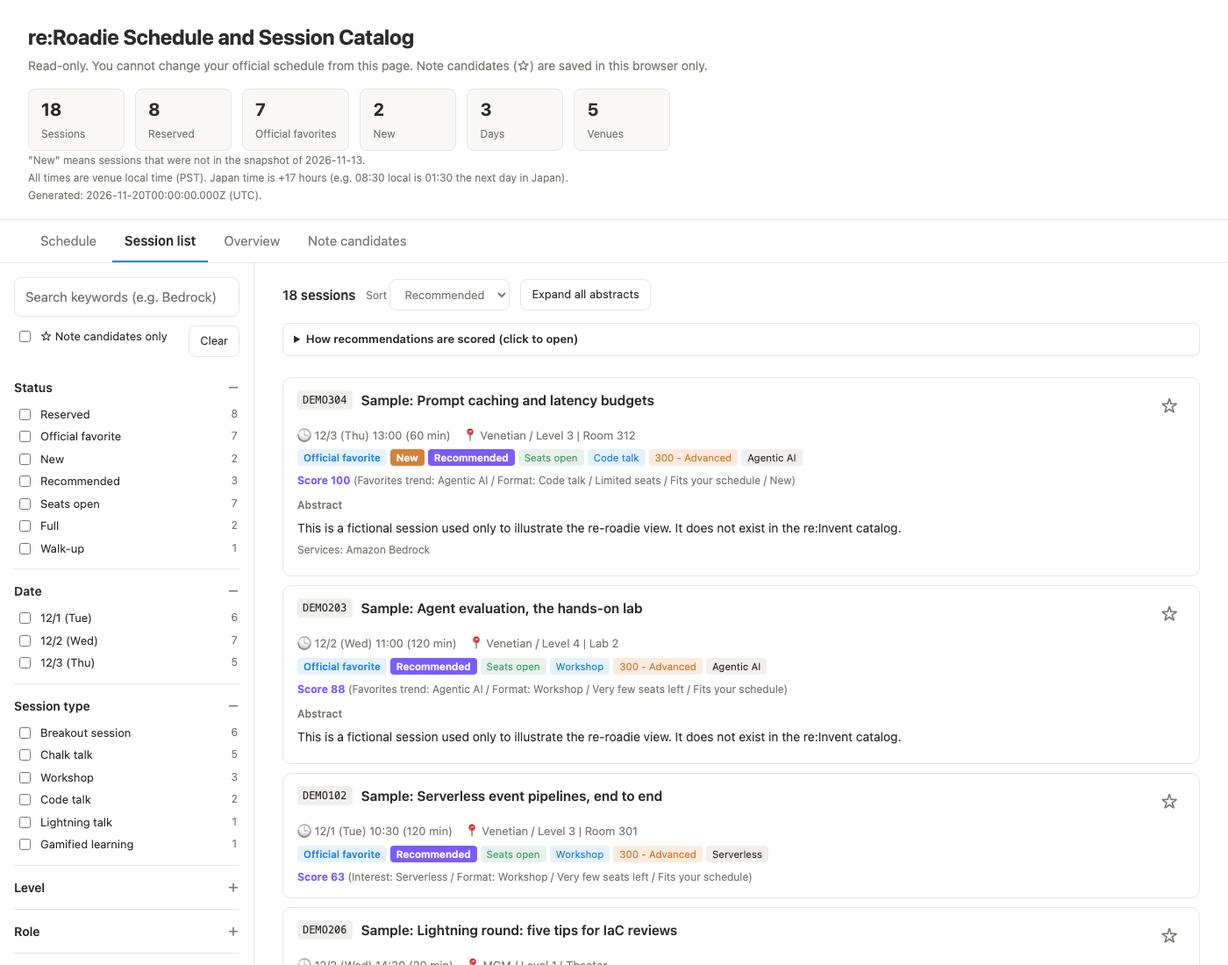
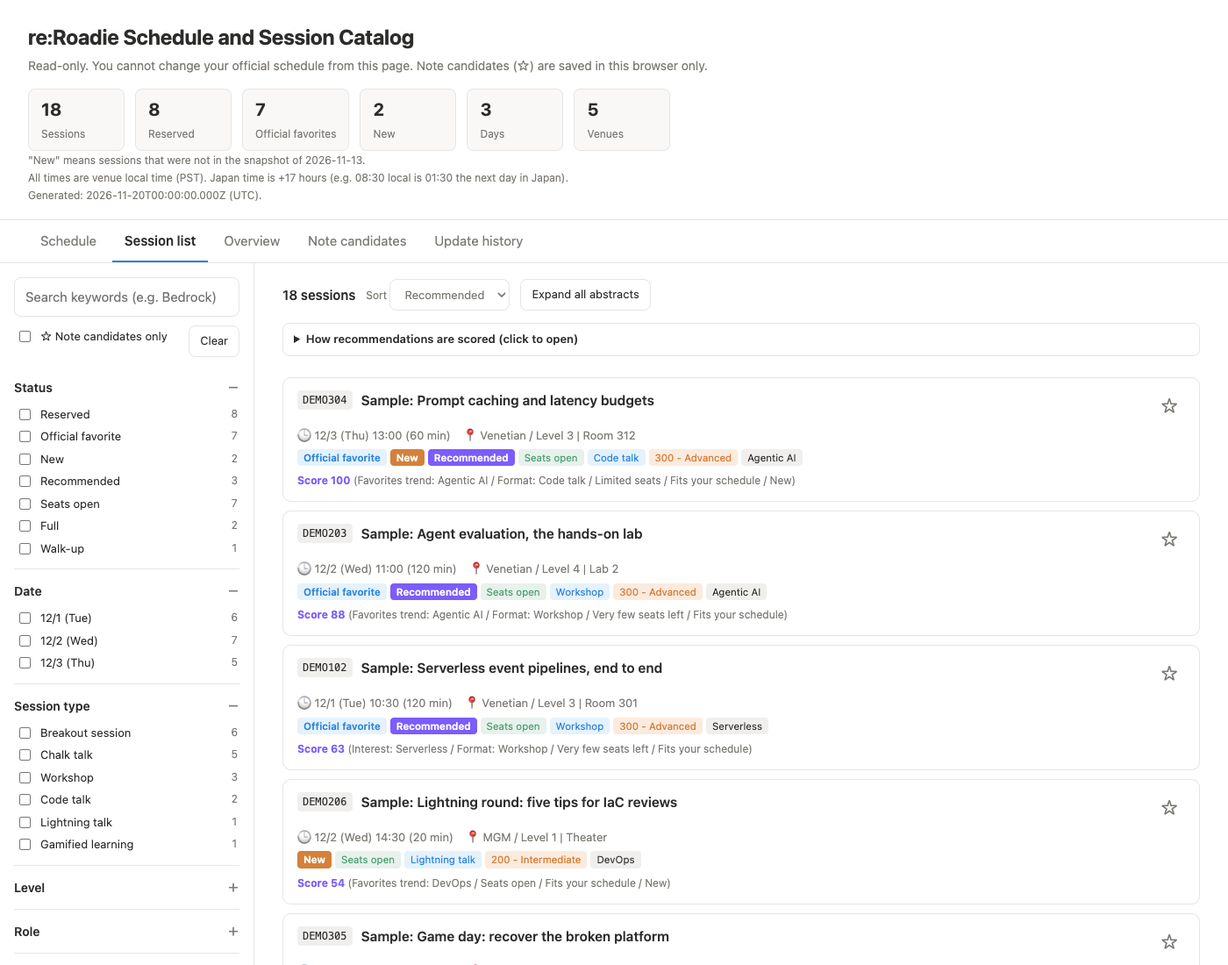
docs: サンプルHTMLとスクリーンショットを更新し、更新履歴タブの画面を加える
viewに更新履歴タブが加わったため、架空のデータでサンプルを作り直し、画面の画像を撮り直した。
更新履歴タブの画像（日英）も加える。英語版の更新履歴で、会場などの区切りが日本語の読点に
なっていたため、英語では「, 」にする。

Changed region(s): [[0.2457, 0.4945, 0.9521, 1.0], [0.3686, 0.2473, 0.43, 0.2782]]

diff --git a/docs/sample/schedule-sample.html b/docs/sample/schedule-sample.html
@@ -165,6 +165,17 @@ details.f[open] summary::after{content:"－"}
 .w-col .t-card{font-size:11px;padding:1px 4px}
 .w-col .t-hour span{font-size:10px}
 @media (max-width:820px){.layout{grid-template-columns:1fr}aside{position:static;max-height:none;border-right:0;border-bottom:1px solid var(--bd)}main,header,.view{padding-left:16px;padding-right:16px}.tabs{padding:0 8px;overflow-x:auto}.bar{grid-template-columns:120px 1fr 40px}.t-lane{left:44px}}
+
+.dg table{border-collapse:collapse;width:100%;margin-bottom:24px;font-size:14px}
+.dg th,.dg td{border-bottom:1px solid var(--bd);padding:6px 8px;text-align:left}.dg td.n{text-align:right}
+.dg section{background:var(--sf);border:1px solid var(--bd);border-radius:8px;padding:12px 16px;margin-bottom:16px}
+.dg h2{font-size:17px;margin:0 0 6px}.dg h4{margin:12px 0 4px;font-size:13px;color:var(--tx2)}
+.dg .note{font-size:12px;font-weight:normal;color:var(--tx2);margin-left:8px}
+.dg .chip{display:inline-block;margin-right:8px;font-size:13px;font-weight:600}
+.dg .add{color:var(--gr)}.dg .rem{color:var(--rd)}.dg .chg{color:var(--or)}
+.dg details{margin-top:8px}.dg summary{cursor:pointer;font-weight:600}.dg .count{color:var(--tx2);font-weight:normal}
+.dg ul{margin:6px 0 0;padding-left:20px}.dg li{margin:3px 0}.dg .meta{color:var(--tx2);font-size:13px}.dg .none,.dg .cap{color:var(--tx2);margin:8px 0 12px;font-size:13px}
+.dg a{color:inherit}
 </style></head><body>
 <header><h1>re:Roadie 予定とセッションカタログ</h1>
 <p class="sub">参照専用です。この画面から公式の予定は変更できません。☆のメモ候補はこのブラウザだけに保存されます。</p>
@@ -177,6 +188,7 @@ details.f[open] summary::after{content:"－"}
 <button class="tab" data-v="list" role="tab">セッション一覧</button>
 <button class="tab" data-v="ov" role="tab">全体像</button>
 <button class="tab" data-v="memo" role="tab">メモ候補 <span id="memon"></span></button>
+<button class="tab" data-v="digest" role="tab">更新履歴</button>
 </nav>
 <div id="vsched" class="view">
 <div class="note">予約 8件 / お気に入り 7件（未予約） / <span class="warn-text">警告 1件</span></div>
@@ -287,6 +299,7 @@ Gamified learning / 300 - Advanced" style="top:576.0px;height:216.0px;left:0.00%
 <div class="toolbar"><span class="count" id="memoCount"></span><button class="btn" id="csv">CSVエクスポート</button><span class="note">時間が重なる候補は赤く表示されます（会場間の移動時間は考慮していません）。このブラウザだけのメモで、公式の予定・予約には反映されません。★を押すとメモから外せます。</span></div>
 <div id="memoPlan"></div>
 </div>
+<div id="vdigest" class="view hidden"><div class="dg"><p class="cap">件数はカタログの掲載数で、AWS の注力や参加者数を表すとは限りません。変更は会場・部屋・日時のみ。</p><table><thead><tr><th>期間</th><th>新規</th><th>削除</th><th>変更</th></tr></thead><tbody><tr><td><a href="#d-2026-11-20">2026-11-17 → 2026-11-20</a></td><td class="n add">1</td><td class="n rem">1</td><td class="n chg">1</td></tr><tr><td><a href="#d-2026-11-17">2026-11-16 → 2026-11-17</a></td><td class="n add">1</td><td class="n rem">0</td><td class="n chg">0</td></tr><tr><td><a href="#d-2026-11-16">2026-11-13 → 2026-11-16</a></td><td class="n add">0</td><td class="n rem">0</td><td class="n chg">0</td></tr></tbody></table><section id="d-2026-11-20"><h2>2026-11-17 → 2026-11-20 <span class="note">3日分をまとめた差分（間のスナップショットなし）</span></h2><div class="chips"><span class="chip add">新規 1</span><span class="chip rem">削除 1</span><span class="chip chg">変更 1</span></div><details open><summary>新規 <span class="count">1件</span></summary><h4>Code talk (1)</h4><ul><li><b>DEMO304</b> Sample: Prompt caching and latency budgets <span class="meta">12/3 13:00、Venetian、Level 3 | Room 312</span></li></ul></details><details><summary>削除 <span class="count">1件</span></summary><ul><li><b>DEMO401</b> Sample: Retired session that left the catalog <span class="meta">12/2 10:00、Wynn、Level 1 | Latour</span></li></ul></details><details><summary>変更（会場・部屋・日時） <span class="count">1件</span></summary><ul><li><b>DEMO105</b> Sample: Observability for event-driven systems <span class="meta">部屋: Level 1 | Room 102 → Level 1 | Room 101 / 日時: 12/1 14:30 → 12/1 15:00</span></li></ul></details></section><section id="d-2026-11-17"><h2>2026-11-16 → 2026-11-17 </h2><div class="chips"><span class="chip add">新規 1</span><span class="chip rem">削除 0</span><span class="chip chg">変更 0</span></div><details><summary>新規 <span class="count">1件</span></summary><h4>Lightning talk (1)</h4><ul><li><b>DEMO206</b> Sample: Lightning round: five tips for IaC reviews <span class="meta">12/2 14:30、MGM、Level 1 | Theater</span></li></ul></details></section><section id="d-2026-11-16"><h2>2026-11-13 → 2026-11-16 <span class="note">3日分をまとめた差分（間のスナップショットなし）</span></h2><div class="chips"><span class="chip add">新規 0</span><span class="chip rem">削除 0</span><span class="chip chg">変更 0</span></div><p class="none">変化なし</p></section></div></div>
 <script type="application/json" id="ri-data">{"data":[{"id":"sample-101","c":"DEMO101","t":"Sample: Designing agent workflows with tool use","a":"This is a fictional session used only to illustrate the re-roadie view. It does not exist in the re:Invent catalog.","ty":"Breakout session","lv":"300 - Advanced","tp":["Agentic AI"],"rl":[],"ar":[],"in":[],"sv":["Amazon Bedrock"],"ft":[],"ve":"Venetian","rm":"Level 2 | Hall A","dt":"2026-12-01","tm":"09:00","ln":60,"sp":[],"sa":"limited","ss":["予約済み"]},{"id":"sample-102","c":"DEMO102","t":"Sample: Serverless event pipelines, end to end","a":"This is a fictional session used only to illustrate the re-roadie view. It does not exist in the re:Invent catalog.","ty":"Workshop","lv":"300 - Advanced","tp":["Serverless"],"rl":[],"ar":[],"in":[],"sv":["AWS Lambda"],"ft":[],"ve":"Venetian","rm":"Level 3 | Room 301","dt":"2026-12-01","tm":"10:30","ln":120,"sp":[],"sa":"veryLimited","rc":63,"rw":["関心: サーバーレス","形式: ワークショップ","残りわずか","予定に収まる"],"ss":["公式お気に入り","おすすめ","空席あり"]},{"id":"sample-103","c":"DEMO103","t":"Sample: Cost controls for AI workloads","a":"This is a fictional session used only to illustrate the re-roadie view. It does not exist in the re:Invent catalog.","ty":"Chalk talk","lv":"200 - Intermediate","tp":["Cost Optimization"],"rl":[],"ar":[],"in":[],"sv":[],"ft":[],"ve":"Caesars Forum","rm":"Level 1 | Forum 105","dt":"2026-12-01","tm":"13:30","ln":60,"sp":[],"sa":"available","ss":["予約済み"]},{"id":"sample-104","c":"DEMO104","t":"Sample: Securing MCP servers in production","a":"This is a fictional session used only to illustrate the re-roadie view. It does not exist in the re:Invent catalog.","ty":"Chalk talk","lv":"300 - Advanced","tp":["Security & Identity","Agentic AI"],"rl":[],"ar":[],"in":[],"sv":[],"ft":[],"ve":"Caesars Forum","rm":"Level 2 | Forum 210","dt":"2026-12-01","tm":"14:45","ln":60,"sp":[],"sa":"unavailable","ss":["公式お気に入り","満席"]},{"id":"sample-105","c":"DEMO105","t":"Sample: Observability for event-driven systems","a":"This is a fictional session used only to illustrate the re-roadie view. It does not exist in the re:Invent catalog.","ty":"Code talk","lv":"300 - Advanced","tp":["Observability"],"rl":[],"ar":[],"in":[],"sv":[],"ft":[],"ve":"MGM","rm":"Level 1 | Room 101","dt":"2026-12-01","tm":"15:00","ln":60,"sp":[],"sa":"available","ss":["空席あり"]},{"id":"sample-106","c":"DEMO106","t":"Sample: Networking patterns for multi-account setups","a":"This is a fictional session used only to illustrate the re-roadie view. It does not exist in the re:Invent catalog.","ty":"Breakout session","lv":"300 - Advanced","tp":["Networking"],"rl":[],"ar":[],"in":[],"sv":[],"ft":[],"ve":"Wynn","rm":"Level 1 | Lafleur","dt":"2026-12-01","tm":"16:30","ln":60,"sp":[],"sa":"limited","ss":["予約済み"]},{"id":"sample-201","c":"DEMO201","t":"Sample: Retrieval patterns that survive production","a":"This is a fictional session used only to illustrate the re-roadie view. It does not exist in the re:Invent catalog.","ty":"Breakout session","lv":"300 - Advanced","tp":["Agentic AI","Data"],"rl":[],"ar":[],"in":[],"sv":["Amazon Bedrock"],"ft":[],"ve":"Venetian","rm":"Level 2 | Hall B","dt":"2026-12-02","tm":"08:30","ln":60,"sp":[],"sa":"available","ss":["予約済み"]},{"id":"sample-202","c":"DEMO202","t":"Sample: Build interactive web apps with serverless","a":"This is a fictional session used only to illustrate the re-roadie view. It does not exist in the re:Invent catalog.","ty":"Chalk talk","lv":"200 - Intermediate","tp":["Serverless"],"rl":[],"ar":[],"in":[],"sv":["AWS Lambda"],"ft":[],"ve":"Venetian","rm":"Level 3 | Room 305","dt":"2026-12-02","tm":"09:45","ln":60,"sp":[],"sa":"limited","ss":["予約済み"]},{"id":"sample-203","c":"DEMO203","t":"Sample: Agent evaluation, the hands-on lab","a":"This is a fictional session used only to illustrate the re-roadie view. It does not exist in the re:Invent catalog.","ty":"Workshop","lv":"300 - Advanced","tp":["Agentic AI"],"rl":[],"ar":[],"in":[],"sv":[],"ft":[],"ve":"Venetian","rm":"Level 4 | Lab 2","dt":"2026-12-02","tm":"11:00","ln":120,"sp":[],"sa":"veryLimited","rc":88,"rw":["お気に入りの傾向: エージェンティックAI","形式: ワークショップ","残りわずか","予定に収まる"],"ss":["公式お気に入り","おすすめ","空席あり"]},{"id":"sample-204","c":"DEMO204","t":"Sample: Identity for autonomous agents","a":"This is a fictional session used only to illustrate the re-roadie view. It does not exist in the re:Invent catalog.","ty":"Chalk talk","lv":"300 - Advanced","tp":["Security & Identity"],"rl":[],"ar":[],"in":[],"sv":[],"ft":[],"ve":"Caesars Forum","rm":"Level 1 | Forum 108","dt":"2026-12-02","tm":"13:00","ln":60,"sp":[],"sa":"walkUp","ss":["公式お気に入り","当日先着"]},{"id":"sample-205","c":"DEMO205","t":"Sample: Kubernetes upgrades without surprises","a":"This is a fictional session used only to illustrate the re-roadie view. It does not exist in the re:Invent catalog.","ty":"Breakout session","lv":"300 - Advanced","tp":["Containers"],"rl":[],"ar":[],"in":[],"sv":[],"ft":[],"ve":"Caesars Forum","rm":"Level 2 | Forum 215","dt":"2026-12-02","tm":"13:30","ln":60,"sp":[],"sa":"available","rc":48,"rw":["お気に入りの傾向: コンテナ","空席あり","予定に収まる"],"ss":["公式お気に入り","空席あり"]},{"id":"sample-206","c":"DEMO206","t":"Sample: Lightning round: five tips for IaC reviews","a":"This is a fictional session used only to illustrate the re-roadie view. It does not exist in the re:Invent catalog.","ty":"Lightning talk","lv":"200 - Intermediate","tp":["DevOps"],"rl":[],"ar":[],"in":[],"sv":[],"ft":[],"ve":"MGM","rm":"Level 1 | Theater","dt":"2026-12-02","tm":"14:30","ln":20,"sp":[],"sa":"available","rc":54,"rw":["お気に入りの傾向: DevOps","空席あり","予定に収まる","新着"],"ss":["新着","空席あり"]},{"id":"sample-207","c":"DEMO207","t":"Sample: Data lake governance in practice","a":"This is a fictional session used only to illustrate the re-roadie view. It does not exist in the re:Invent catalog.","ty":"Breakout session","lv":"300 - Advanced","tp":["Data"],"rl":[],"ar":[],"in":[],"sv":[],"ft":[],"ve":"Wynn","rm":"Level 1 | Latour","dt":"2026-12-02","tm":"16:00","ln":60,"sp":[],"sa":"limited","ss":["予約済み"]},{"id":"sample-301","c":"DEMO301","t":"Sample: Keynote companion: what changed this year","a":"This is a fictional session used only to illustrate the re-roadie view. It does not exist in the re:Invent catalog.","ty":"Breakout session","lv":"100 - Foundational","tp":["Strategy"],"rl":[],"ar":[],"in":[],"sv":[],"ft":[],"ve":"Venetian","rm":"Level 2 | Hall A","dt":"2026-12-03","tm":"08:00","ln":60,"sp":[],"sa":"available","ss":["予約済み"]},{"id":"sample-302","c":"DEMO302","t":"Sample: Resilience drills with chaos experiments","a":"This is a fictional session used only to illustrate the re-roadie view. It does not exist in the re:Invent catalog.","ty":"Workshop","lv":"300 - Advanced","tp":["Resilience"],"rl":[],"ar":[],"in":[],"sv":[],"ft":[],"ve":"Caesars Palace","rm":"Level 1 | Octavius 4","dt":"2026-12-03","tm":"10:00","ln":120,"sp":[],"sa":"unavailable","ss":["満席"]},{"id":"sample-303","c":"DEMO303","t":"Sample: Choosing a queue: when to use which","a":"This is a fictional session used only to illustrate the re-roadie view. It does not exist in the re:Invent catalog.","ty":"Chalk talk","lv":"200 - Intermediate","tp":["Serverless","Integration"],"rl":[],"ar":[],"in":[],"sv":[],"ft":[],"ve":"Venetian","rm":"Level 3 | Room 310","dt":"2026-12-03","tm":"10:15","ln":60,"sp":[],"sa":"available","ss":["予約済み"]},{"id":"sample-304","c":"DEMO304","t":"Sample: Prompt caching and latency budgets","a":"This is a fictional session used only to illustrate the re-roadie view. It does not exist in the re:Invent catalog.","ty":"Code talk","lv":"300 - Advanced","tp":["Agentic AI"],"rl":[],"ar":[],"in":[],"sv":["Amazon Bedrock"],"ft":[],"ve":"Venetian","rm":"Level 3 | Room 312","dt":"2026-12-03","tm":"13:00","ln":60,"sp":[],"sa":"limited","rc":100,"rw":["お気に入りの傾向: エージェンティックAI","形式: コードトーク","残り少なめ","予定に収まる","新着"],"ss":["公式お気に入り","新着","おすすめ","空席あり"]},{"id":"sample-305","c":"DEMO305","t":"Sample: Game day: recover the broken platform","a":"This is a fictional session used only to illustrate the re-roadie view. It does not exist in the re:Invent catalog.","ty":"Gamified learning","lv":"300 - Advanced","tp":["Resilience","DevOps"],"rl":[],"ar":[],"in":[],"sv":[],"ft":[],"ve":"MGM","rm":"Level 2 | Room 210","dt":"2026-12-03","tm":"15:00","ln":180,"sp":[],"sa":"veryLimited","rc":54,"rw":["お気に入りの傾向: レジリエンス","形式: ゲーム形式の学習","残りわずか","予定に収まる"],"ss":["公式お気に入り","空席あり"]}],"ja":{"Chalk talk":"チョークトーク","Breakout session":"ブレイクアウトセッション","Workshop":"ワークショップ","Builders' session":"ビルダーズセッション","Lightning talk":"ライトニングトーク","Code talk":"コードトーク","Lab":"ラボ","Gamified learning":"ゲーム形式の学習","Bootcamp":"ブートキャンプ","Exam prep":"試験対策","100 - Foundational":"100 - 基礎","200 - Intermediate":"200 - 中級","300 - Advanced":"300 - 上級","400 - Expert":"400 - エキスパート","500 - Distinguished":"500 - 最上級","No Level":"レベルなし","Discussion":"ディスカッション","Lecture-style":"講義形式","Hands-on":"ハンズオン","AWS Partners":"AWSパートナー","Customer story":"顧客事例","Community-led":"コミュニティ主導","Self-paced":"セルフペース","Artificial Intelligence":"人工知能 (AI)","Security & Identity":"セキュリティ & アイデンティティ","Architecture":"アーキテクチャ","Cloud Operations":"クラウド運用","Migration & Modernization":"移行 & モダナイゼーション","Developer Tools":"開発者ツール","Business Agents":"ビジネスエージェント","Compute":"コンピューティング","Serverless":"サーバーレス","Databases":"データベース","Analytics":"分析","Industry Solutions":"業界ソリューション","Containers":"コンテナ","Storage":"ストレージ","Networking & Content Delivery":"ネットワーク & コンテンツ配信","Application Integration":"アプリケーション統合","Hybrid Cloud & Multicloud":"ハイブリッド & マルチクラウド","Open Source":"オープンソース","Solution / Systems Architect":"ソリューション / システムアーキテクト","Developer / Engineer":"開発者 / エンジニア","IT Professional / Technical Manager":"ITプロフェッショナル / 技術マネージャー","DevOps Engineer":"DevOpsエンジニア","IT Executive":"IT経営層","Business Executive":"ビジネス経営層","Cloud Security Specialist":"クラウドセキュリティスペシャリスト","Data Engineer":"データエンジニア","IT Administrator":"IT管理者","Academic / Researcher":"学術 / 研究者","System Administrator":"システム管理者","Data Scientist":"データサイエンティスト","Advisor / Consultant":"アドバイザー / コンサルタント","Tech Explorer":"テクノロジー探求者","Sales / Marketing":"営業 / マーケティング","Entrepreneur (Founder/Co-Founder)":"起業家 (創業者)","Student":"学生","Venture Capitalist":"ベンチャーキャピタリスト","Agentic AI":"エージェンティックAI","Generative AI":"生成AI","Innovation & Transformation":"イノベーション & 変革","Cost Optimization":"コスト最適化","DevOps":"DevOps","Automation":"自動化","Monitoring & Observability":"監視 & オブザーバビリティ","Resilience":"レジリエンス","Governance, Risk & Compliance":"ガバナンス・リスク・コンプライアンス","Global Infrastructure":"グローバルインフラ","Application Security":"アプリケーションセキュリティ","Lambda-Based Applications":"Lambdaベースのアプリ","Machine Learning":"機械学習","Identity & Access Management":"ID & アクセス管理","Event-Driven Architecture":"イベント駆動アーキテクチャ","Well-Architected Framework":"Well-Architectedフレームワーク","DevSecOps":"DevSecOps","Network & Infrastructure Security":"ネットワーク & インフラセキュリティ","Management & Governance":"管理 & ガバナンス","Data Protection":"データ保護","Kubernetes":"Kubernetes","Threat Detection & Incident Response":"脅威検出 & インシデント対応","Responsible AI":"責任あるAI","Training & Certification":"トレーニング & 認定","Edge Computing":"エッジコンピューティング","Disaster Response & Recovery":"災害対応 & 復旧","Customer Enablement":"カスタマーイネーブルメント","Business Intelligence":"ビジネスインテリジェンス","Open Data":"オープンデータ","Tech for Impact":"社会貢献テック","Front-End Web & Mobile":"フロントエンド Web & モバイル","SaaS":"SaaS","VMware":"VMware","Microsoft & .NET":"Microsoft & .NET","Culture of Security":"セキュリティ文化","Learning from Amazon":"Amazonに学ぶ","Zero Trust":"ゼロトラスト","Digital Sovereignty":"デジタル主権","SAP":"SAP","Threat Intelligence":"脅威インテリジェンス","Workforce Development":"人材育成","Robotics":"ロボティクス","Internet of Things":"IoT","Oracle":"Oracle","Sustainability":"サステナビリティ","Quantum Technologies":"量子技術","Cryptography and Post-Quantum":"暗号 & 耐量子","Blockchain":"ブロックチェーン","DNU - Serverless":"DNU - サーバーレス","Inclusion":"インクルージョン","Privacy":"プライバシー","Financial Services":"金融","Media & Entertainment":"メディア & エンタメ","Government":"政府・公共","Healthcare & Life Sciences":"ヘルスケア & ライフサイエンス","Retail & Consumer Goods":"小売 & 消費財","Automotive":"自動車","Telecommunications":"通信","Manufacturing & Industrial":"製造 & 産業","Advertising & Marketing":"広告 & マーケティング","Games":"ゲーム","Education":"教育","Energy & Utilities":"エネルギー & 公益","Sports":"スポーツ","Nonprofit":"非営利","Travel & Hospitality":"旅行 & ホスピタリティ"},"ui":{"weekdays":["日","月","火","水","木","金","土"],"dayFormat":"{0}/{1}({2})","dayTbd":"日時未定","dot":" ・ ","timeBands":["〜10時","10〜12時","12〜14時","14〜17時","17時〜","未定"],"dims":["状態","日付","セッションタイプ","レベル","役職（ロール）","トピック","関心分野","業種","AWSサービス","特徴（形式）","会場","開始時間帯"],"venueTbd":"会場未定","servicePlaceholder":"サービス名で絞り込み","serviceAria":"サービス検索","count":"{0} 件","minutes":"（{0}分）","labelAreas":"関心分野","labelServices":"サービス","labelIndustries":"業種","labelFeatures":"特徴","starAria":"メモ候補に追加","starTitle":"メモ候補（このブラウザだけに保存。公式の予定は変わりません）","recScore":"おすすめ度 {0}","recWhy":"（{0}）","abstractLabel":"Abstract（原文）","emptyList":"条件に一致するセッションがありません。フィルターを緩めてください。","moreButton":"さらに表示（残り {0} 件）","collapseAll":"概要を閉じる","expandAll":"概要をすべて開く","stats":["セッション総数","予約済み","公式お気に入り","新着","開催日","会場"],"daysCount":"{0}日","newNote":"「新着」は {0} のスナップショットに無かったセッションです。","newNoteNone":"新着の比較元になる過去のスナップショットがありません。","recipeSummary":"おすすめの基準（クリックで開く）","recipePriority":"優先{0}位","recipeFavorites":"お気に入りの傾向","recipeInterest":"関心テーマ","recipeWeight":"重み {0}","recipeNone":"お気に入りも、プロフィールの関心テーマも無いため、おすすめを計算できません。","recipePoints":"点数: トピックの重み×40 ＋ 優先形式 10 ＋ 空席 10（残りわずかは5）＋ 予定に収まる 15 ＋ 新着 5（80点満点を100点に換算）。おすすめ度 {0} 以上に「おすすめ」の印を付けます。","recipeExcluded":"除外: 予約済み・満席・当日先着、予約や個人予定と重なる（移動時間・最低空き時間を含む）、1日の上限、参加日の外、希望レベル超え、スポンサー除外、開始時刻より前。","recipeBasis":"お気に入りの傾向を基本に、プロフィールで優先順位を決めていれば、それで上書きします。","overview":["日付別","セッションタイプ別","役職別","トピック別","レベル別","会場別","関心分野（上位15）","AWSサービス（上位15）"],"memoCount":"メモ候補 {0} 件","memoEmpty":"一覧で ☆ を押すと、ここに日別で表示されます。","memoDayCount":"（{0}件）","memoTbd":"未定","memoConflict":"⚠ 時間重複","memoRemove":"メモから外す","memoJump":"一覧で詳細を見る →","csvHeader":["コード","タイトル","タイトル（日本語）","日付","開始","分","会場","部屋","タイプ","レベル","役職","登壇者"],"csvFilename":"reinvent2026_メモ候補.csv","tagReserved":"予約済み","tagClashReserved":"⚠ 予約と重複（{0}）","tagClashPersonal":"⚠ 個人予定と重複（{0}）","tagMemo":"★ メモ","tr":{"absLabel":"概要（日本語訳）","one":"このセッションを日本語訳","google":"Google翻訳で開く ↗","noApi":"このブラウザでは内蔵翻訳が使えません。最新のChromeで開くか、「Google翻訳で開く」を使ってください。","unavailable":"英→日の内蔵翻訳が利用できません。","preparing":"翻訳モデルを準備中…","downloading":"翻訳モデルをダウンロード中 {0}%","failed":"翻訳を開始できませんでした: {0}","progress":"翻訳中 {0}/{1}","done":"{0}件を日本語訳しました（このブラウザに保存済み）","error":"翻訳エラー: {0}"}},"st":{"reserved":"予約済み","favorite":"公式お気に入り","isNew":"新着","recommend":"おすすめ","open":"空席あり","full":"満席","walkUp":"当日先着"},"lang":"ja","meta":{"newBaseline":"2026-11-13","personal":[{"date":"2026-12-02","start":480,"end":570,"title":"Keynote (sample)"},{"date":"2026-12-02","start":1110,"end":1230,"title":"Team dinner (sample)"}],"px":1.2,"recipe":[{"t":"Agentic AI","w":1,"s":"favorites"},{"t":"Security & Identity","w":0.67,"s":"favorites"},{"t":"Serverless","w":0.5,"s":"interest"},{"t":"Containers","w":0.33,"s":"favorites"},{"t":"DevOps","w":0.33,"s":"favorites"},{"t":"Resilience","w":0.33,"s":"favorites"}],"threshold":60}}</script>
 <script>
 (function () {
@@ -732,6 +745,7 @@ Gamified learning / 300 - Advanced" style="top:576.0px;height:216.0px;left:0.00%
   });
 
   var VIEWS = { sched: 'vsched', list: 'vlist', ov: 'vov', memo: 'vmemo' };
+  if ($('vdigest')) VIEWS.digest = 'vdigest';
   function show(v) {
     document.querySelectorAll('.tab').forEach(function (t) { t.classList.toggle('on', t.dataset.v === v); });
     Object.keys(VIEWS).forEach(function (k) { $(VIEWS[k]).classList.toggle('hidden', k !== v); });

diff --git a/docs/sample/schedule-sample.en.html b/docs/sample/schedule-sample.en.html
@@ -165,6 +165,17 @@ details.f[open] summary::after{content:"－"}
 .w-col .t-card{font-size:11px;padding:1px 4px}
 .w-col .t-hour span{font-size:10px}
 @media (max-width:820px){.layout{grid-template-columns:1fr}aside{position:static;max-height:none;border-right:0;border-bottom:1px solid var(--bd)}main,header,.view{padding-left:16px;padding-right:16px}.tabs{padding:0 8px;overflow-x:auto}.bar{grid-template-columns:120px 1fr 40px}.t-lane{left:44px}}
+
+.dg table{border-collapse:collapse;width:100%;margin-bottom:24px;font-size:14px}
+.dg th,.dg td{border-bottom:1px solid var(--bd);padding:6px 8px;text-align:left}.dg td.n{text-align:right}
+.dg section{background:var(--sf);border:1px solid var(--bd);border-radius:8px;padding:12px 16px;margin-bottom:16px}
+.dg h2{font-size:17px;margin:0 0 6px}.dg h4{margin:12px 0 4px;font-size:13px;color:var(--tx2)}
+.dg .note{font-size:12px;font-weight:normal;color:var(--tx2);margin-left:8px}
+.dg .chip{display:inline-block;margin-right:8px;font-size:13px;font-weight:600}
+.dg .add{color:var(--gr)}.dg .rem{color:var(--rd)}.dg .chg{color:var(--or)}
+.dg details{margin-top:8px}.dg summary{cursor:pointer;font-weight:600}.dg .count{color:var(--tx2);font-weight:normal}
+.dg ul{margin:6px 0 0;padding-left:20px}.dg li{margin:3px 0}.dg .meta{color:var(--tx2);font-size:13px}.dg .none,.dg .cap{color:var(--tx2);margin:8px 0 12px;font-size:13px}
+.dg a{color:inherit}
 </style></head><body>
 <header><h1>re:Roadie Schedule and Session Catalog</h1>
 <p class="sub">Read-only. You cannot change your official schedule from this page. Note candidates (☆) are saved in this browser only.</p>
@@ -177,6 +188,7 @@ details.f[open] summary::after{content:"－"}
 <button class="tab" data-v="list" role="tab">Session list</button>
 <button class="tab" data-v="ov" role="tab">Overview</button>
 <button class="tab" data-v="memo" role="tab">Note candidates <span id="memon"></span></button>
+<button class="tab" data-v="digest" role="tab">Update history</button>
 </nav>
 <div id="vsched" class="view">
 <div class="note">Reserved 8 / Favorites 7 (not reserved) / <span class="warn-text">Warnings 1</span></div>
@@ -285,6 +297,7 @@ Gamified learning / 300 - Advanced" style="top:576.0px;height:216.0px;left:0.00%
 <div class="toolbar"><span class="count" id="memoCount"></span><button class="btn" id="csv">Export CSV</button><span class="note">Overlapping candidates are shown in red (travel time between venues is not considered). These notes live in this browser only and are not reflected in your official schedule or reservations. Press ★ to remove one.</span></div>
 <div id="memoPlan"></div>
 </div>
+<div id="vdigest" class="view hidden"><div class="dg"><p class="cap">Counts are catalog listings and do not necessarily show AWS priorities or attendance. Changes cover venue, room, and time only.</p><table><thead><tr><th>Period</th><th>New</th><th>Removed</th><th>Changed</th></tr></thead><tbody><tr><td><a href="#d-2026-11-20">2026-11-17 → 2026-11-20</a></td><td class="n add">1</td><td class="n rem">1</td><td class="n chg">1</td></tr><tr><td><a href="#d-2026-11-17">2026-11-16 → 2026-11-17</a></td><td class="n add">1</td><td class="n rem">0</td><td class="n chg">0</td></tr><tr><td><a href="#d-2026-11-16">2026-11-13 → 2026-11-16</a></td><td class="n add">0</td><td class="n rem">0</td><td class="n chg">0</td></tr></tbody></table><section id="d-2026-11-20"><h2>2026-11-17 → 2026-11-20 <span class="note">Combined diff over 3 days (no snapshot in between)</span></h2><div class="chips"><span class="chip add">New 1</span><span class="chip rem">Removed 1</span><span class="chip chg">Changed 1</span></div><details open><summary>New <span class="count">1</span></summary><h4>Code talk (1)</h4><ul><li><b>DEMO304</b> Sample: Prompt caching and latency budgets <span class="meta">12/3 13:00, Venetian, Level 3 | Room 312</span></li></ul></details><details><summary>Removed <span class="count">1</span></summary><ul><li><b>DEMO401</b> Sample: Retired session that left the catalog <span class="meta">12/2 10:00, Wynn, Level 1 | Latour</span></li></ul></details><details><summary>Changed (venue, room, time) <span class="count">1</span></summary><ul><li><b>DEMO105</b> Sample: Observability for event-driven systems <span class="meta">Room: Level 1 | Room 102 → Level 1 | Room 101 / Time: 12/1 14:30 → 12/1 15:00</span></li></ul></details></section><section id="d-2026-11-17"><h2>2026-11-16 → 2026-11-17 </h2><div class="chips"><span class="chip add">New 1</span><span class="chip rem">Removed 0</span><span class="chip chg">Changed 0</span></div><details><summary>New <span class="count">1</span></summary><h4>Lightning talk (1)</h4><ul><li><b>DEMO206</b> Sample: Lightning round: five tips for IaC reviews <span class="meta">12/2 14:30, MGM, Level 1 | Theater</span></li></ul></details></section><section id="d-2026-11-16"><h2>2026-11-13 → 2026-11-16 <span class="note">Combined diff over 3 days (no snapshot in between)</span></h2><div class="chips"><span class="chip add">New 0</span><span class="chip rem">Removed 0</span><span class="chip chg">Changed 0</span></div><p class="none">No changes</p></section></div></div>
 <script type="application/json" id="ri-data">{"data":[{"id":"sample-101","c":"DEMO101","t":"Sample: Designing agent workflows with tool use","a":"This is a fictional session used only to illustrate the re-roadie view. It does not exist in the re:Invent catalog.","ty":"Breakout session","lv":"300 - Advanced","tp":["Agentic AI"],"rl":[],"ar":[],"in":[],"sv":["Amazon Bedrock"],"ft":[],"ve":"Venetian","rm":"Level 2 | Hall A","dt":"2026-12-01","tm":"09:00","ln":60,"sp":[],"sa":"limited","ss":["Reserved"]},{"id":"sample-102","c":"DEMO102","t":"Sample: Serverless event pipelines, end to end","a":"This is a fictional session used only to illustrate the re-roadie view. It does not exist in the re:Invent catalog.","ty":"Workshop","lv":"300 - Advanced","tp":["Serverless"],"rl":[],"ar":[],"in":[],"sv":["AWS Lambda"],"ft":[],"ve":"Venetian","rm":"Level 3 | Room 301","dt":"2026-12-01","tm":"10:30","ln":120,"sp":[],"sa":"veryLimited","rc":63,"rw":["Interest: Serverless","Format: Workshop","Very few seats left","Fits your schedule"],"ss":["Official favorite","Recommended","Seats open"]},{"id":"sample-103","c":"DEMO103","t":"Sample: Cost controls for AI workloads","a":"This is a fictional session used only to illustrate the re-roadie view. It does not exist in the re:Invent catalog.","ty":"Chalk talk","lv":"200 - Intermediate","tp":["Cost Optimization"],"rl":[],"ar":[],"in":[],"sv":[],"ft":[],"ve":"Caesars Forum","rm":"Level 1 | Forum 105","dt":"2026-12-01","tm":"13:30","ln":60,"sp":[],"sa":"available","ss":["Reserved"]},{"id":"sample-104","c":"DEMO104","t":"Sample: Securing MCP servers in production","a":"This is a fictional session used only to illustrate the re-roadie view. It does not exist in the re:Invent catalog.","ty":"Chalk talk","lv":"300 - Advanced","tp":["Security & Identity","Agentic AI"],"rl":[],"ar":[],"in":[],"sv":[],"ft":[],"ve":"Caesars Forum","rm":"Level 2 | Forum 210","dt":"2026-12-01","tm":"14:45","ln":60,"sp":[],"sa":"unavailable","ss":["Official favorite","Full"]},{"id":"sample-105","c":"DEMO105","t":"Sample: Observability for event-driven systems","a":"This is a fictional session used only to illustrate the re-roadie view. It does not exist in the re:Invent catalog.","ty":"Code talk","lv":"300 - Advanced","tp":["Observability"],"rl":[],"ar":[],"in":[],"sv":[],"ft":[],"ve":"MGM","rm":"Level 1 | Room 101","dt":"2026-12-01","tm":"15:00","ln":60,"sp":[],"sa":"available","ss":["Seats open"]},{"id":"sample-106","c":"DEMO106","t":"Sample: Networking patterns for multi-account setups","a":"This is a fictional session used only to illustrate the re-roadie view. It does not exist in the re:Invent catalog.","ty":"Breakout session","lv":"300 - Advanced","tp":["Networking"],"rl":[],"ar":[],"in":[],"sv":[],"ft":[],"ve":"Wynn","rm":"Level 1 | Lafleur","dt":"2026-12-01","tm":"16:30","ln":60,"sp":[],"sa":"limited","ss":["Reserved"]},{"id":"sample-201","c":"DEMO201","t":"Sample: Retrieval patterns that survive production","a":"This is a fictional session used only to illustrate the re-roadie view. It does not exist in the re:Invent catalog.","ty":"Breakout session","lv":"300 - Advanced","tp":["Agentic AI","Data"],"rl":[],"ar":[],"in":[],"sv":["Amazon Bedrock"],"ft":[],"ve":"Venetian","rm":"Level 2 | Hall B","dt":"2026-12-02","tm":"08:30","ln":60,"sp":[],"sa":"available","ss":["Reserved"]},{"id":"sample-202","c":"DEMO202","t":"Sample: Build interactive web apps with serverless","a":"This is a fictional session used only to illustrate the re-roadie view. It does not exist in the re:Invent catalog.","ty":"Chalk talk","lv":"200 - Intermediate","tp":["Serverless"],"rl":[],"ar":[],"in":[],"sv":["AWS Lambda"],"ft":[],"ve":"Venetian","rm":"Level 3 | Room 305","dt":"2026-12-02","tm":"09:45","ln":60,"sp":[],"sa":"limited","ss":["Reserved"]},{"id":"sample-203","c":"DEMO203","t":"Sample: Agent evaluation, the hands-on lab","a":"This is a fictional session used only to illustrate the re-roadie view. It does not exist in the re:Invent catalog.","ty":"Workshop","lv":"300 - Advanced","tp":["Agentic AI"],"rl":[],"ar":[],"in":[],"sv":[],"ft":[],"ve":"Venetian","rm":"Level 4 | Lab 2","dt":"2026-12-02","tm":"11:00","ln":120,"sp":[],"sa":"veryLimited","rc":88,"rw":["Favorites trend: Agentic AI","Format: Workshop","Very few seats left","Fits your schedule"],"ss":["Official favorite","Recommended","Seats open"]},{"id":"sample-204","c":"DEMO204","t":"Sample: Identity for autonomous agents","a":"This is a fictional session used only to illustrate the re-roadie view. It does not exist in the re:Invent catalog.","ty":"Chalk talk","lv":"300 - Advanced","tp":["Security & Identity"],"rl":[],"ar":[],"in":[],"sv":[],"ft":[],"ve":"Caesars Forum","rm":"Level 1 | Forum 108","dt":"2026-12-02","tm":"13:00","ln":60,"sp":[],"sa":"walkUp","ss":["Official favorite","Walk-up"]},{"id":"sample-205","c":"DEMO205","t":"Sample: Kubernetes upgrades without surprises","a":"This is a fictional session used only to illustrate the re-roadie view. It does not exist in the re:Invent catalog.","ty":"Breakout session","lv":"300 - Advanced","tp":["Containers"],"rl":[],"ar":[],"in":[],"sv":[],"ft":[],"ve":"Caesars Forum","rm":"Level 2 | Forum 215","dt":"2026-12-02","tm":"13:30","ln":60,"sp":[],"sa":"available","rc":48,"rw":["Favorites trend: Containers","Seats open","Fits your schedule"],"ss":["Official favorite","Seats open"]},{"id":"sample-206","c":"DEMO206","t":"Sample: Lightning round: five tips for IaC reviews","a":"This is a fictional session used only to illustrate the re-roadie view. It does not exist in the re:Invent catalog.","ty":"Lightning talk","lv":"200 - Intermediate","tp":["DevOps"],"rl":[],"ar":[],"in":[],"sv":[],"ft":[],"ve":"MGM","rm":"Level 1 | Theater","dt":"2026-12-02","tm":"14:30","ln":20,"sp":[],"sa":"available","rc":54,"rw":["Favorites trend: DevOps","Seats open","Fits your schedule","New"],"ss":["New","Seats open"]},{"id":"sample-207","c":"DEMO207","t":"Sample: Data lake governance in practice","a":"This is a fictional session used only to illustrate the re-roadie view. It does not exist in the re:Invent catalog.","ty":"Breakout session","lv":"300 - Advanced","tp":["Data"],"rl":[],"ar":[],"in":[],"sv":[],"ft":[],"ve":"Wynn","rm":"Level 1 | Latour","dt":"2026-12-02","tm":"16:00","ln":60,"sp":[],"sa":"limited","ss":["Reserved"]},{"id":"sample-301","c":"DEMO301","t":"Sample: Keynote companion: what changed this year","a":"This is a fictional session used only to illustrate the re-roadie view. It does not exist in the re:Invent catalog.","ty":"Breakout session","lv":"100 - Foundational","tp":["Strategy"],"rl":[],"ar":[],"in":[],"sv":[],"ft":[],"ve":"Venetian","rm":"Level 2 | Hall A","dt":"2026-12-03","tm":"08:00","ln":60,"sp":[],"sa":"available","ss":["Reserved"]},{"id":"sample-302","c":"DEMO302","t":"Sample: Resilience drills with chaos experiments","a":"This is a fictional session used only to illustrate the re-roadie view. It does not exist in the re:Invent catalog.","ty":"Workshop","lv":"300 - Advanced","tp":["Resilience"],"rl":[],"ar":[],"in":[],"sv":[],"ft":[],"ve":"Caesars Palace","rm":"Level 1 | Octavius 4","dt":"2026-12-03","tm":"10:00","ln":120,"sp":[],"sa":"unavailable","ss":["Full"]},{"id":"sample-303","c":"DEMO303","t":"Sample: Choosing a queue: when to use which","a":"This is a fictional session used only to illustrate the re-roadie view. It does not exist in the re:Invent catalog.","ty":"Chalk talk","lv":"200 - Intermediate","tp":["Serverless","Integration"],"rl":[],"ar":[],"in":[],"sv":[],"ft":[],"ve":"Venetian","rm":"Level 3 | Room 310","dt":"2026-12-03","tm":"10:15","ln":60,"sp":[],"sa":"available","ss":["Reserved"]},{"id":"sample-304","c":"DEMO304","t":"Sample: Prompt caching and latency budgets","a":"This is a fictional session used only to illustrate the re-roadie view. It does not exist in the re:Invent catalog.","ty":"Code talk","lv":"300 - Advanced","tp":["Agentic AI"],"rl":[],"ar":[],"in":[],"sv":["Amazon Bedrock"],"ft":[],"ve":"Venetian","rm":"Level 3 | Room 312","dt":"2026-12-03","tm":"13:00","ln":60,"sp":[],"sa":"limited","rc":100,"rw":["Favorites trend: Agentic AI","Format: Code talk","Limited seats","Fits your schedule","New"],"ss":["Official favorite","New","Recommended","Seats open"]},{"id":"sample-305","c":"DEMO305","t":"Sample: Game day: recover the broken platform","a":"This is a fictional session used only to illustrate the re-roadie view. It does not exist in the re:Invent catalog.","ty":"Gamified learning","lv":"300 - Advanced","tp":["Resilience","DevOps"],"rl":[],"ar":[],"in":[],"sv":[],"ft":[],"ve":"MGM","rm":"Level 2 | Room 210","dt":"2026-12-03","tm":"15:00","ln":180,"sp":[],"sa":"veryLimited","rc":54,"rw":["Favorites trend: Resilience","Format: Gamified learning","Very few seats left","Fits your schedule"],"ss":["Official favorite","Seats open"]}],"ja":{},"ui":{"weekdays":["Sun","Mon","Tue","Wed","Thu","Fri","Sat"],"dayFormat":"{0}/{1} ({2})","dayTbd":"Date TBD","dot":" · ","timeBands":["Before 10:00","10:00–12:00","12:00–14:00","14:00–17:00","After 17:00","TBD"],"dims":["Status","Date","Session type","Level","Role","Topic","Area of interest","Industry","AWS service","Format","Venue","Start time"],"venueTbd":"Venue TBD","servicePlaceholder":"Filter by service name","serviceAria":"Search services","count":"{0} sessions","minutes":" ({0} min)","labelAreas":"Areas of interest","labelServices":"Services","labelIndustries":"Industries","labelFeatures":"Format","starAria":"Add to note candidates","starTitle":"Note candidate (saved in this browser only; your official schedule does not change)","recScore":"Score {0}","recWhy":" ({0})","abstractLabel":"Abstract","emptyList":"No sessions match these conditions. Try loosening the filters.","moreButton":"Show more ({0} left)","collapseAll":"Collapse abstracts","expandAll":"Expand all abstracts","stats":["Sessions","Reserved","Official favorites","New","Days","Venues"],"daysCount":"{0}","newNote":"\"New\" means sessions that were not in the snapshot of {0}.","newNoteNone":"There is no earlier snapshot to compare against for \"New\".","recipeSummary":"How recommendations are scored (click to open)","recipePriority":"priority #{0}","recipeFavorites":"favorites trend","recipeInterest":"declared interest","recipeWeight":"weight {0}","recipeNone":"There are no favorites or profile interests, so recommendations cannot be computed.","recipePoints":"Score: topic weight × 40 + preferred format 10 + open seats 10 (5 if very few left) + fits your schedule 15 + new 5 (out of 80, scaled to 100). Sessions scoring {0} or more get the \"Recommended\" mark.","recipeExcluded":"Excluded: reserved, full, or walk-up sessions; overlaps with reservations or personal time (including travel time and the minimum gap); the daily limit; days outside your attendance; above your preferred level; sponsored sessions if excluded; and starts before your earliest start time.","recipeBasis":"Weights come from your favorites; if the profile sets a theme priority, it overrides them.","overview":["By date","By session type","By role","By topic","By level","By venue","Areas of interest (top 15)","AWS services (top 15)"],"memoCount":"{0} note candidates","memoEmpty":"Press ☆ in the list and the sessions will appear here by day.","memoDayCount":" ({0})","memoTbd":"TBD","memoConflict":"⚠ Time overlap","memoRemove":"Remove from notes","memoJump":"See details in the list →","csvHeader":["Code","Title","Title (translated)","Date","Start","Minutes","Venue","Room","Type","Level","Role","Speakers"],"csvFilename":"reinvent2026_note-candidates.csv","tagReserved":"Reserved","tagClashReserved":"⚠ Overlaps a reservation ({0})","tagClashPersonal":"⚠ Overlaps personal time ({0})","tagMemo":"★ Note","tr":null},"st":{"reserved":"Reserved","favorite":"Official favorite","isNew":"New","recommend":"Recommended","open":"Seats open","full":"Full","walkUp":"Walk-up"},"lang":"en","meta":{"newBaseline":"2026-11-13","personal":[{"date":"2026-12-02","start":480,"end":570,"title":"Keynote (sample)"},{"date":"2026-12-02","start":1110,"end":1230,"title":"Team dinner (sample)"}],"px":1.2,"recipe":[{"t":"Agentic AI","w":1,"s":"favorites"},{"t":"Security & Identity","w":0.67,"s":"favorites"},{"t":"Serverless","w":0.5,"s":"interest"},{"t":"Containers","w":0.33,"s":"favorites"},{"t":"DevOps","w":0.33,"s":"favorites"},{"t":"Resilience","w":0.33,"s":"favorites"}],"threshold":60}}</script>
 <script>
 (function () {
@@ -730,6 +743,7 @@ Gamified learning / 300 - Advanced" style="top:576.0px;height:216.0px;left:0.00%
   });
 
   var VIEWS = { sched: 'vsched', list: 'vlist', ov: 'vov', memo: 'vmemo' };
+  if ($('vdigest')) VIEWS.digest = 'vdigest';
   function show(v) {
     document.querySelectorAll('.tab').forEach(function (t) { t.classList.toggle('on', t.dataset.v === v); });
     Object.keys(VIEWS).forEach(function (k) { $(VIEWS[k]).classList.toggle('hidden', k !== v); });

diff --git a/src/reporting/digestHtml.ts b/src/reporting/digestHtml.ts
@@ -18,7 +18,7 @@ type DigestLang = 'ja' | 'en';
 const L = {
   ja: {
     added: '新規', removed: '削除', changed: '変更（会場・部屋・日時）', changedShort: '変更', unit: '件', none: '変化なし',
-    noType: '（形式なし）', noValue: '（なし）', period: '期間',
+    noType: '（形式なし）', noValue: '（なし）', period: '期間', sep: '、',
     merged: (n: number) => `${n}日分をまとめた差分（間のスナップショットなし）`,
     empty: '比べられる日別スナップショットが2日分ありません。<code>re-roadie sync</code> か <code>watch</code> を日をあけて実行すると記録されます。',
     field: { venue: '会場', room: '部屋', sessionTime: '日時' } as Record<string, string>,
@@ -28,7 +28,7 @@ const L = {
   },
   en: {
     added: 'New', removed: 'Removed', changed: 'Changed (venue, room, time)', changedShort: 'Changed', unit: '', none: 'No changes',
-    noType: '(no type)', noValue: '(none)', period: 'Period',
+    noType: '(no type)', noValue: '(none)', period: 'Period', sep: ', ',
     merged: (n: number) => `Combined diff over ${n} days (no snapshot in between)`,
     empty: 'Fewer than two daily snapshots are saved. Run <code>re-roadie sync</code> or <code>watch</code> on different days to record them.',
     field: { venue: 'Venue', room: 'Room', sessionTime: 'Time' } as Record<string, string>,
@@ -70,8 +70,8 @@ function when(s: Session): string {
   return [day, t?.time].filter(Boolean).join(' ');
 }
 
-function sessionLine(s: Session): string {
-  const meta = [when(s), s.venue, s.room].filter(Boolean).join('、');
+function sessionLine(s: Session, sep: string): string {
+  const meta = [when(s), s.venue, s.room].filter(Boolean).join(sep);
   return `<li><b>${esc(s.abbreviation ?? s.sessionId)}</b> ${esc(s.title)}${meta ? ` <span class="meta">${esc(meta)}</span>` : ''}</li>`;
 }
 
@@ -108,8 +108,8 @@ function renderPeriod(p: DigestPeriod, first: boolean, t: (typeof L)[DigestLang]
   const body = empty
     ? `<p class="none">${t.none}</p>`
     : section(t.added, added.length, groupByType(added, t.noType).map(([type, list]) =>
-        `<h4>${esc(type)} (${list.length})</h4><ul>${list.map(sessionLine).join('')}</ul>`).join(''), t.unit, first)
-      + section(t.removed, removed.length, `<ul>${removed.map(sessionLine).join('')}</ul>`, t.unit)
+        `<h4>${esc(type)} (${list.length})</h4><ul>${list.map((s) => sessionLine(s, t.sep)).join('')}</ul>`).join(''), t.unit, first)
+      + section(t.removed, removed.length, `<ul>${removed.map((s) => sessionLine(s, t.sep)).join('')}</ul>`, t.unit)
       + section(t.changed, changed.length, `<ul>${changed.map((c) => changedLine(c, t)).join('')}</ul>`, t.unit);
   return `<section id="d-${esc(p.to)}"><h2>${esc(p.from)} → ${esc(p.to)} ${note}</h2><div class="chips">${counts}</div>${body}</section>`;
 }

diff --git a/scripts/generate-sample-html.ts b/scripts/generate-sample-html.ts
@@ -6,6 +6,7 @@ import type { PersonalTime, Schedule, SeatAvailability, Session } from '../src/a
 import { computeTravelBlock } from '../src/schedule/travelBlock.js';
 import { buildScheduleHtml } from '../src/reporting/scheduleHtml.js';
 import type { Lang } from '../src/reporting/i18n.js';
+import type { DigestPeriod } from '../src/reporting/digestHtml.js';
 
 const OUT_PATHS = { ja: 'docs/sample/schedule-sample.html', en: 'docs/sample/schedule-sample.en.html' } as const;
 
@@ -105,6 +106,16 @@ const schedule: Schedule = { reserved: reservedIds, favorites: FAVORITE_NUMBERS.
 const withTitles = (lang: Lang): Schedule =>
   lang === 'ja' ? schedule : { ...schedule, personalTime: personalTime.map((p) => ({ ...p, title: p.title.replace(/ 移動$/, ' travel') })) };
 
+// 「更新履歴」タブに出す、架空の日別の差分（新しい期間が先）。実データではない
+const retired = toSession({ n: 401, title: 'Sample: Retired session that left the catalog', type: 'Chalk talk', level: '200 - Intermediate', venue: 'Wynn', room: 'Level 1 | Latour', date: '2026-12-02', time: '10:00', length: 60, seat: 'available', topics: ['Data'] });
+const movedAfter = byId.get(id(105))!;
+const movedBefore: Session = { ...movedAfter, room: 'Level 1 | Room 102', sessionTime: { ...movedAfter.sessionTime!, time: '14:30' } };
+const digestPeriods: DigestPeriod[] = [
+  { from: '2026-11-17', to: '2026-11-20', diff: { added: [byId.get(id(304))!], removed: [retired], changed: [{ sessionId: id(105), before: movedBefore, after: movedAfter, changedFields: ['room', 'sessionTime'] }] } },
+  { from: '2026-11-16', to: '2026-11-17', diff: { added: [byId.get(id(206))!], removed: [], changed: [] } },
+  { from: '2026-11-13', to: '2026-11-16', diff: { added: [], removed: [], changed: [] } },
+];
+
 function build(lang: Lang): string {
   return buildScheduleHtml({
     schedule: withTitles(lang),
@@ -122,6 +133,7 @@ function build(lang: Lang): string {
     generatedAt: new Date('2026-11-20T00:00:00Z'),
     newSessionIds: NEW_NUMBERS.map(id),
     newBaseline: '2026-11-13',
+    digestPeriods,
     lang,
   });
 }
